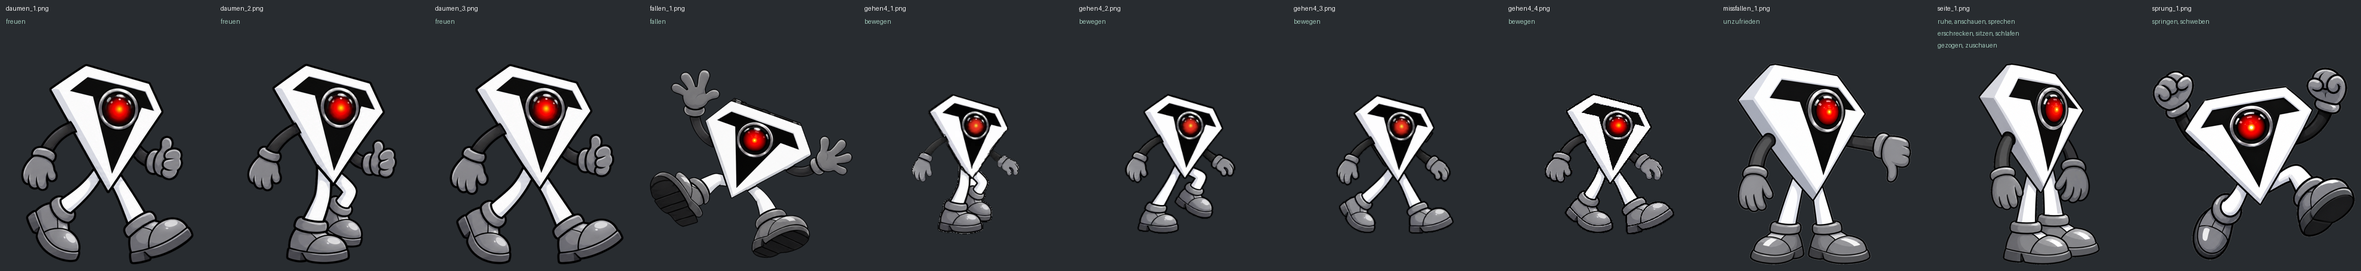
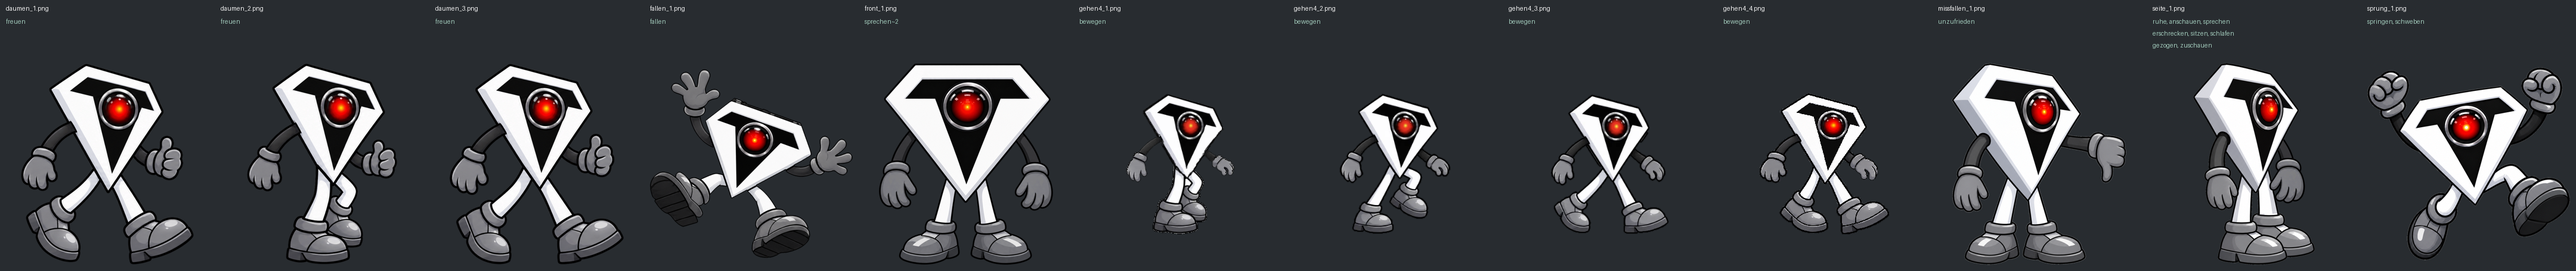
DMNT 9000: Frontansicht beim Sprechen (Zufallsvariante), Animations-Varianten name~n
Claude-Session: https://claude.ai/code/session_01WAYk2D3oB2eZHrMfHXK8Zn

diff --git a/src/dmnt_kobold/overlay.py b/src/dmnt_kobold/overlay.py
@@ -12,6 +12,7 @@ from __future__ import annotations
 import logging
 import math
 import os
+import random
 import time
 from collections import deque
 
@@ -139,6 +140,7 @@ class AvatarFenster(QWidget):
         self._ausgabe: Ausgabe | None = None
         self._animation = "ruhe"
         self._animation_t = 0.0
+        self._variante = "ruhe"
         self._stauch_t = -1.0
         self._blick = (0.0, 0.0)
         self._letzte_darstellung: tuple | None = None
@@ -234,6 +236,7 @@ class AvatarFenster(QWidget):
         if animation != self._animation:
             self._animation = animation
             self._animation_t = 0.0
+            self._variante = random.choice(self.darsteller.varianten(animation))
         else:
             self._animation_t += dt
 
@@ -400,7 +403,7 @@ class AvatarFenster(QWidget):
         if sprite:                             # grob runden → wenige Masken im Cache
             sx, sy = round(sx * 50) / 50, round(sy * 50) / 50
         z = Zustand(
-            animation=self._animation, t=self._animation_t, sx=sx, sy=sy,
+            animation=self._variante, t=self._animation_t, sx=sx, sy=sy,
             richtung=self.koerper.richtung, augen=augen, mund=mund,
             blick=(round(self._blick[0], 1), round(self._blick[1], 1)), zzz=zzz,
             schatten=self.koerper.zustand == STEHT and self._fuehrung is None,

diff --git a/src/dmnt_kobold/avatar.py b/src/dmnt_kobold/avatar.py
@@ -115,6 +115,11 @@ class Darsteller:
     def masken_schluessel(self, z: Zustand) -> tuple:
         return (round(z.sx, 2), round(z.sy, 2), z.richtung, z.schatten, z.zzz, z.zubehoer)
 
+    def varianten(self, animation: str) -> list[str]:
+        """Namen aller Varianten einer Animation (``sprechen``, ``sprechen~2`` …).
+        Das Overlay wählt bei jedem Beginn zufällig eine."""
+        return [animation]
+
 
 class BlobDarsteller(Darsteller):
     name = "Blob"
@@ -251,6 +256,12 @@ class SpriteDarsteller(Darsteller):
         p.restore()
         if z.zzz:
             _zzz(p, QPointF(self.fuss.x() + self.breite * 0.25, RAND_OBEN - 2))
+
+    def varianten(self, animation: str) -> list[str]:
+        name = NAMEN.get(animation, animation)
+        namen = [n for n in self.avatar.animationen
+                 if "@" not in n and (n == name or n.startswith(name + "~"))]
+        return sorted(namen) or [animation]
 
     def masken_schluessel(self, z: Zustand) -> tuple:
         i, a, _ = self._frame(z)

diff --git a/tests/test_avatar.py b/tests/test_avatar.py
@@ -109,3 +109,12 @@ def test_eigene_zubehoer_frames_haben_vorrang(qapp):
     avatar.animationen["bewegen@kopfhoerer"] = avatar.animationen["freuen"]
     _, a, rest = darsteller._frame(z)
     assert a is avatar.animationen["freuen"] and rest == frozenset()
+
+
+def test_varianten(qapp):
+    from dmnt_kobold.avatar import avatar_laden
+
+    darsteller, avatar = avatar_laden("dmnt9000")
+    assert darsteller.varianten("laufen") == ["bewegen"]
+    assert darsteller.varianten("gibtsnicht") == ["gibtsnicht"]
+    assert "sprechen" in darsteller.varianten("sprechen")
